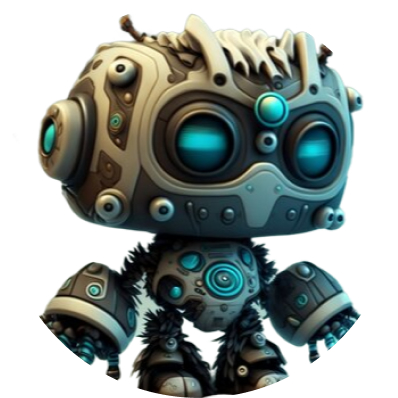
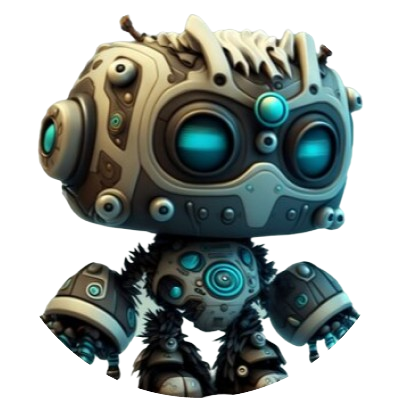
updated:improved styled component

diff --git a/src/components/BackgroundSection/BackgroundSection.styles.ts b/src/components/BackgroundSection/BackgroundSection.styles.ts
@@ -8,14 +8,14 @@ const StyledRevelLogoImg=styled.img`
     position: absolute;
     top:60%;
     left: 50%;
-    z-index: 1;
+    z-index: 2;
     border-radius: 100px;
 `
 const StyledUiUxImg=styled.img`
     position: absolute;
-    top: 100%;
-    left: 60%;
-    z-index: 1;
+    top: 110%;
+    left: 55%;
+    z-index: 2;
     border-radius: 100px;
 `
 
@@ -28,12 +28,11 @@ const StyledEllipse=styled.img`
 
 const StyledRobot=styled.img`
     position: absolute;
-    opacity: 30%;
-    width:34rem;
-    height: 34rem;
-    top: 24%;
-    left: 60%;
+    width:37 rem;
+    height:37rem;
     z-index: 1;
+    top: 36%;
+    left: 57%;
 `
 const StyledBigEllipse=styled.img`
     width: 3.5rem;
@@ -48,13 +47,25 @@ const StyledHollowCircle=styled.img`
     position: absolute;
     width: 40.625rem;
     height: 40.625rem;
-    top: 12%;
-    left: 57%;
+    top: 30%;
+    left: 55%;
     z-index: 0;
 `
 
-export {StyledBackgroundSection,StyledRobot,StyledEllipse,StyledBigEllipse,StyledHollowCircle,StyledUiUxImg,StyledRevelLogoImg}
-
+export {StyledRobotBackground,StyledBackgroundSection,StyledRobot,StyledEllipse,StyledBigEllipse,StyledHollowCircle,StyledUiUxImg,StyledRevelLogoImg}
+const StyledRobotBackground=styled.div`
+    position: absolute;
+    background: linear-gradient(white, black); 
+    opacity: 30%;
+    width:37rem;
+    opacity: 100%;
+    height: 37rem;
+    top: 36%;
+    left: 57%;
+    z-index: 0;
+    border-radius: 50%;
+    padding: 0;
+`
 /*.background-small-1-ellipse {
     position: absolute;
     top: 18%;

diff --git a/src/components/BackgroundSection/BackgroundSection.tsx b/src/components/BackgroundSection/BackgroundSection.tsx
@@ -3,22 +3,28 @@ import {
     StyledBigEllipse,
     StyledEllipse,
     StyledHollowCircle,
-    StyledRevelLogoImg, StyledRobot,
+    StyledRevelLogoImg, StyledRobot, StyledRobotBackground,
     StyledUiUxImg
 } from "./BackgroundSection.styles.ts";
-
+import UiUxLogo from "../../assets/BackgroundImg/ui-ux.jpg";
+import BigEllipse from "../../assets/BackgroundShape/BigCircle.jpg";
+import SmallEllipse from "../../assets/BackgroundShape/SmallCircle.jpg";
+import HollowCircle from "../../assets/BackgroundShape/hollow.jpg";
+import RevelLogo from "../../assets/BackgroundImg/Revel-logo.jpg";
+import Robot from "../../assets/BackgroundImg/robot.jpg";
 const BackgroundSection=()=>{
     return (
         <StyledBackgroundSection>
-            <StyledBigEllipse/>
-            <StyledEllipse/>
-            <StyledEllipse/>
-            <StyledEllipse/>
-            <StyledRevelLogoImg/>
-            <StyledUiUxImg/>
-            <StyledHollowCircle/>
-            <StyledRobot/>
-        </StyledBackgroundSection>
+            <StyledBigEllipse src={BigEllipse}/>
+            <StyledEllipse src ={SmallEllipse}/>
+            <StyledEllipse src ={SmallEllipse}/>
+            <StyledEllipse src={SmallEllipse}/>
+            <StyledRevelLogoImg src={RevelLogo}/>
+            <StyledUiUxImg src={UiUxLogo}/>
+            <StyledHollowCircle src={HollowCircle}/>
+            <StyledRobot src={Robot}/>
+            <StyledRobotBackground/>
+            </StyledBackgroundSection>
     )
 };
 

diff --git a/src/components/Navbar/Navbar.styles.ts b/src/components/Navbar/Navbar.styles.ts
@@ -23,7 +23,7 @@ const StyledNavLi=styled.li`
  display: inline;
 `
 const StyledNavAnchor=styled.a`
- font-family: Roboto;
+ font-family: var(--defaultFont);
     color: white;
  font-size: 1.2rem;
  font-weight: 500;
@@ -32,7 +32,7 @@ const StyledNavAnchor=styled.a`
     
 `
 const StyledRevelLogo=styled.span`
-    font-family: Aquire;
+    font-family: var(--fancyFont);
     font-size: 2rem;
     font-weight: 700;
     color: var(--grayOne);
@@ -45,7 +45,7 @@ const StyledBtnContainer=styled.div`
     gap: 16px;
 `
 const StyledButton=styled.button`
-    font-family: Roboto;
+    font-family: var(--defaultFont);
     font-size: 1rem;
     padding: 16px 12px;
     border-radius: 10px;

diff --git a/src/App.css b/src/App.css
@@ -21,8 +21,8 @@ body {
   --grayWhite:#F2F4F8;
   --lightGray:rgba(105, 112, 119, 0.16);
   --hoverShadow:0px 2px 6px 0px rgba(0, 0, 0, 0.08), 0px 4px 8px 0px rgba(0, 0, 0, 0.15);
-  --defaultFont:Roboto,neo-grotesque sans-serif;
-  --fancyFont:Aquire,modern sans serif font;
+  --defaultFont:Roboto;
+  --fancyFont:Aquire;
 }
 section.landing-page{
   width:100%;

diff --git a/src/components/TextSection/TextSection.styles.ts b/src/components/TextSection/TextSection.styles.ts
@@ -18,8 +18,8 @@ const StyledTextSection=styled.div`
 `
 const StyledDescription=styled.p`
 color:white;
-font-size: 1.25rem;
-font-family: roboto ;
+font-size: 18px;
+font-family: var(--defaultFont) ;
  margin: 0;
 `
 export {StyledTitle,StyledTextSection,StyledDescription}
